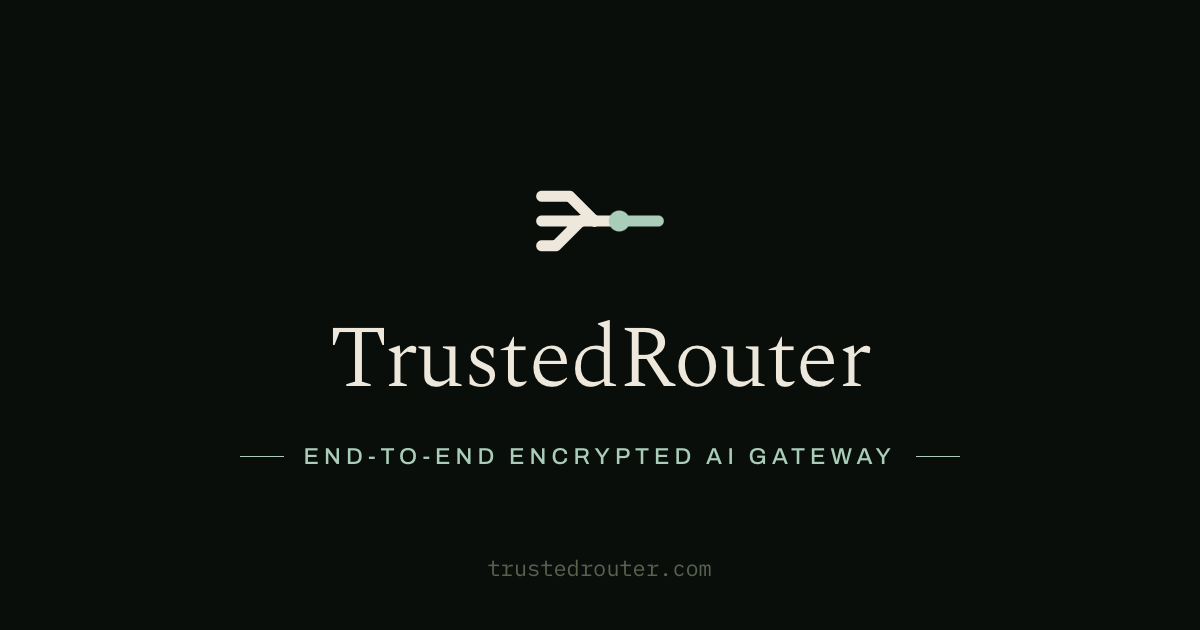
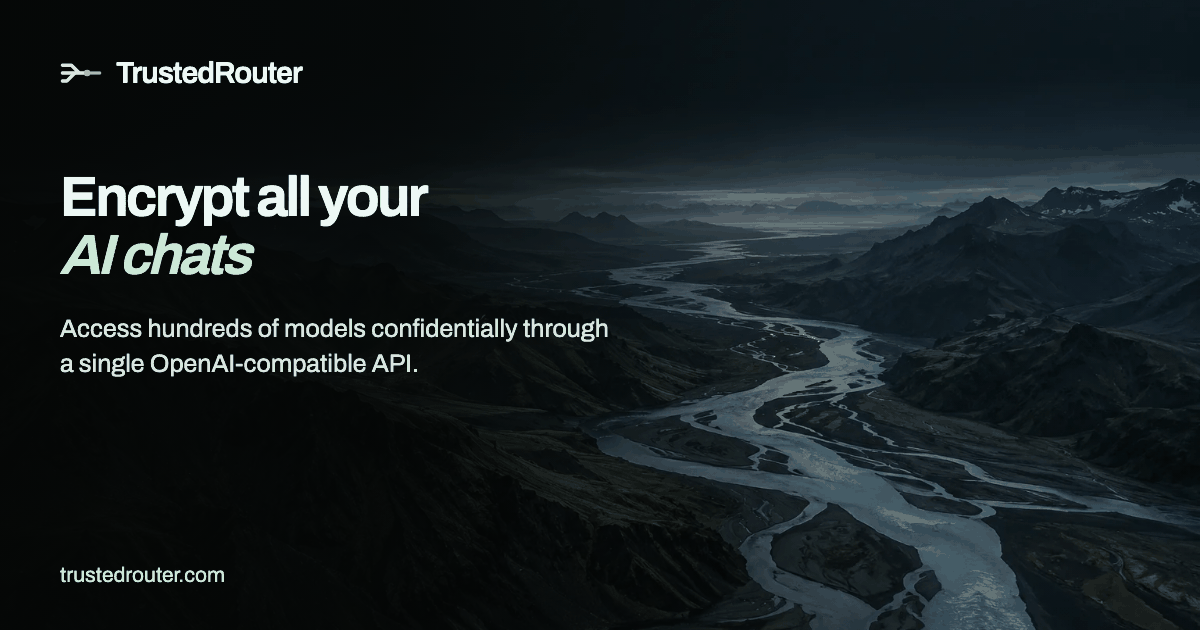
Render the default social card in the homepage style
Every page without a card of its own (3,639 of 3,823 sitemap URLs) unfurls
with static/og.png, which was still the old serif brand card. The card is
now the homepage card's design and words, rendered from a shared template
(docs/marketing/og-card.html) by scripts/generate_og_card.py, and a test
keeps it a 1200x630 PNG under 300 KB.

diff --git a/docs/marketing/og-card.html b/docs/marketing/og-card.html
@@ -1,0 +1,5 @@
+<!doctype html><html lang="en"><meta charset="utf-8"><base href="$base"><title>TrustedRouter social card</title><style>
+@font-face{font-family:Archivo;src:url('../../src/trusted_router/static/homepage/archivo.woff2');font-weight:100 900}
+*{box-sizing:border-box}html,body{margin:0;width:1200px;height:630px;overflow:hidden;background:#050706;color:#edf8f5;font-family:Archivo,Arial,sans-serif}
+.card{position:relative;width:1200px;height:630px;overflow:hidden}.landscape{position:absolute;inset:0;width:100%;height:100%;object-fit:cover;object-position:center 62%}.shade{position:absolute;inset:0;background:linear-gradient(90deg,#050706f5 0%,#050706d9 34%,#05070645 70%,#05070614 100%)}.content{position:relative;padding:52px 60px}.brand{display:flex;align-items:center;gap:14px;font-size:30px;font-weight:600;letter-spacing:-1px}.brand img{width:42px;height:42px}h1{font-size:76px;line-height:1.04;letter-spacing:-.045em;font-weight:650;margin:75px 0 26px;white-space:nowrap}em{color:#cce8d7;font-weight:600}p{font-size:25px;line-height:1.4;max-width:550px;margin:0;color:#d8e4df}.domain{position:absolute;bottom:44px;left:60px;font-size:21px;color:#cce8d7}
+</style><div class="card"><img class="landscape" src="../../src/trusted_router/static/homepage/trustedrouter-landscape-1536.webp" alt=""><div class="shade"></div><div class="content"><div class="brand"><img src="../../src/trusted_router/static/homepage/mark.svg" alt="">TrustedRouter</div><h1>$headline</h1><p>$subhead</p></div><div class="domain">trustedrouter.com</div></div></html>

diff --git a/scripts/generate_og_card.py b/scripts/generate_og_card.py
@@ -1,0 +1,179 @@
+#!/usr/bin/env python3
+"""Render a link-preview card in the homepage card style; by default the site's default card.
+
+Every page without a card of its own unfurls with ``static/og.png`` through the
+``og_image`` default in ``templates/public/_base.html``. On 2026-11-02 that was
+3,639 of the 3,823 sitemap URLs: every model page, every model comparison, the
+docs, legal and most core pages. This script renders that card from
+``docs/marketing/og-card.html`` with the homepage card's own words, so the
+default and the homepage card (``static/homepage/social-card-v2.jpg``, from
+``docs/homepage/social-card.html``) are one design.
+
+    uv run python scripts/generate_og_card.py                       # writes static/og.png
+    uv run python scripts/generate_og_card.py --out card.png \\
+        --headline "Private AI routing" --accent "you can verify" \\
+        --subhead "Hundreds of models through one API."              # a one-off card, same style
+
+Rendering uses the repo's Playwright Chromium (``npm ci`` installs it; Node 18+)
+and Pillow. The PNG is reduced to a median-cut palette so it stays under 300 KB.
+Blog cards (generate_blog_og.py) and provider cards (generate_provider_og.py)
+are separate.
+"""
+
+from __future__ import annotations
+
+import argparse
+import html
+import json
+import shutil
+import subprocess
+import sys
+import tempfile
+from dataclasses import dataclass
+from pathlib import Path
+from string import Template
+
+from PIL import Image
+
+REPO_ROOT = Path(__file__).resolve().parent.parent
+TEMPLATE_PATH = REPO_ROOT / "docs" / "marketing" / "og-card.html"
+STATIC_DIR = REPO_ROOT / "src" / "trusted_router" / "static"
+DEFAULT_OUT = STATIC_DIR / "og.png"
+
+WIDTH, HEIGHT = 1200, 630
+MAX_BYTES = 300_000
+MAX_HEADLINE_WORDS = 7
+# The headline shrinks from the homepage card's 76px until both lines fit
+# inside this width, so the river stays visible on the right.
+HEADLINE_MAX_WIDTH = 840
+HEADLINE_MIN_SIZE = 56
+
+
+@dataclass(frozen=True)
+class Card:
+    headline: str
+    accent: str  # italic pale-green second line; "" for a one-line headline
+    subhead: str
+
+    @property
+    def words(self) -> int:
+        return len(f"{self.headline} {self.accent}".split())
+
+
+# The homepage card's words. Changing them here changes what most of the site
+# shows when a link is shared; keep them in step with docs/homepage/social-card.html.
+DEFAULT_CARD = Card(
+    headline="Encrypt all your",
+    accent="AI chats",
+    subhead="Access hundreds of models confidentially through a single OpenAI-compatible API.",
+)
+
+# Runs in Node against the repo's @playwright/test: load the filled template,
+# wait for the font and the photo, shrink the headline until both lines fit,
+# and screenshot the 1200x630 page.
+_RENDER_JS = """
+const fs = require("fs");
+// The script runs from a temp folder; resolve Playwright from the repo's node_modules.
+const { chromium } = require(require.resolve("@playwright/test", { paths: [process.cwd()] }));
+const [manifestPath] = process.argv.slice(2);
+const { html, png, maxWidth, minSize } = JSON.parse(fs.readFileSync(manifestPath, "utf8"));
+(async () => {
+  const browser = await chromium.launch();
+  const page = await browser.newPage({ viewport: { width: 1200, height: 630 }, deviceScaleFactor: 1 });
+  await page.goto("file://" + html);
+  await page.evaluate(async ({ maxWidth, minSize }) => {
+    await document.fonts.ready;
+    await Promise.all([...document.images].map((img) => img.decode().catch(() => {})));
+    const h1 = document.querySelector("h1");
+    let size = parseFloat(getComputedStyle(h1).fontSize);
+    while (h1.scrollWidth > maxWidth && size > minSize) {
+      size -= 2;
+      h1.style.fontSize = size + "px";
+    }
+  }, { maxWidth, minSize });
+  await page.screenshot({ path: png, type: "png" });
+  await browser.close();
+})().catch((error) => { console.error(error); process.exit(1); });
+"""
+
+
+def render_html(card: Card, template: str | None = None) -> str:
+    """Fill the card template. Relative asset paths resolve from the template's folder."""
+    headline = html.escape(card.headline)
+    if card.accent:
+        headline += f"<br><em>{html.escape(card.accent)}</em>"
+    return Template(template or TEMPLATE_PATH.read_text()).substitute(
+        base=TEMPLATE_PATH.parent.as_uri() + "/",
+        headline=headline,
+        subhead=html.escape(card.subhead),
+    )
+
+
+def compress(path: Path) -> int:
+    """Re-encode a screenshot as a palette PNG under MAX_BYTES; returns the final size.
+
+    A full-colour 1200x630 render of the river photo is about 600 KB. Median-cut
+    palettes keep the photo's colours (the octree and max-coverage quantisers
+    shift them) and stay smooth without dithering, which showed as grain in the
+    sky. The palette shrinks only as far as the size limit needs.
+    """
+    with Image.open(path) as source:
+        image = source.convert("RGB")
+    for colors in (256, 192, 160, 128, 96, 64):
+        image.quantize(colors=colors, method=Image.Quantize.MEDIANCUT).save(
+            path, format="PNG", optimize=True
+        )
+        if path.stat().st_size <= MAX_BYTES:
+            break
+    return path.stat().st_size
+
+
+def render(card: Card, out: Path, node: str = "node") -> int:
+    """Render one card to ``out`` and return its size in bytes."""
+    out.parent.mkdir(parents=True, exist_ok=True)
+    with tempfile.TemporaryDirectory(prefix="og-card-") as tmp:
+        work = Path(tmp)
+        page = work / "card.html"
+        page.write_text(render_html(card))
+        script = work / "render.js"
+        script.write_text(_RENDER_JS)
+        manifest = work / "manifest.json"
+        manifest.write_text(
+            json.dumps(
+                {
+                    "html": str(page),
+                    "png": str(out),
+                    "maxWidth": HEADLINE_MAX_WIDTH,
+                    "minSize": HEADLINE_MIN_SIZE,
+                }
+            )
+        )
+        subprocess.run(  # noqa: S603 - fixed argv, our own script and manifest
+            [node, str(script), str(manifest)], cwd=REPO_ROOT, check=True
+        )
+    return compress(out)
+
+
+def main(argv: list[str] | None = None) -> int:
+    parser = argparse.ArgumentParser(
+        description=__doc__, formatter_class=argparse.RawDescriptionHelpFormatter
+    )
+    parser.add_argument("--out", type=Path, default=DEFAULT_OUT, help="PNG to write")
+    parser.add_argument("--headline", default=DEFAULT_CARD.headline)
+    parser.add_argument("--accent", default=DEFAULT_CARD.accent, help="italic second line; '' for none")
+    parser.add_argument("--subhead", default=DEFAULT_CARD.subhead)
+    parser.add_argument("--node", default=shutil.which("node") or "node", help="Node 18+ binary")
+    args = parser.parse_args(argv)
+
+    card = Card(args.headline, args.accent, args.subhead)
+    if card.words > MAX_HEADLINE_WORDS:
+        print(f"headline over {MAX_HEADLINE_WORDS} words; it will not read at thumbnail size", file=sys.stderr)
+        return 2
+    size = render(card, args.out, args.node)
+    flag = "" if size <= MAX_BYTES else "  OVER LIMIT"
+    print(f"{args.out}  {size // 1024} KB{flag}")
+    return 0 if size <= MAX_BYTES else 1
+
+
+if __name__ == "__main__":
+    raise SystemExit(main())

diff --git a/tests/test_og_default_card.py b/tests/test_og_default_card.py
@@ -1,0 +1,39 @@
+"""The default social card: what most of the site shows when a link is shared.
+
+Every page without a card of its own falls back to static/og.png through the
+og_image default in templates/public/_base.html. These checks keep the file a
+valid link-preview image: the OG size, a PNG, small enough to unfurl quickly,
+and rendered from the shared template so it matches the homepage card.
+"""
+
+from pathlib import Path
+
+from PIL import Image
+
+from scripts.generate_og_card import DEFAULT_CARD, MAX_BYTES, Card, render_html
+
+REPO_ROOT = Path(__file__).resolve().parents[1]
+OG_PNG = REPO_ROOT / "src" / "trusted_router" / "static" / "og.png"
+TEMPLATE = REPO_ROOT / "docs" / "marketing" / "og-card.html"
+
+
+def test_default_card_is_a_small_1200x630_png() -> None:
+    assert OG_PNG.stat().st_size <= MAX_BYTES
+    with Image.open(OG_PNG) as image:
+        assert image.format == "PNG"
+        assert image.size == (1200, 630)
+
+
+def test_default_card_words_match_the_homepage_card() -> None:
+    homepage = (REPO_ROOT / "docs" / "homepage" / "social-card.html").read_text()
+    assert f"{DEFAULT_CARD.headline}<br><em>{DEFAULT_CARD.accent}</em>" in homepage
+    assert DEFAULT_CARD.subhead in homepage
+    assert DEFAULT_CARD.words <= 7
+
+
+def test_template_fills_words_and_escapes_them() -> None:
+    page = render_html(Card("Routing & <proof>", "you can verify", "One sentence."))
+    assert "Routing &amp; &lt;proof&gt;<br><em>you can verify</em>" in page
+    assert "<p>One sentence.</p>" in page
+    assert f'<base href="{TEMPLATE.parent.as_uri()}/">' in page
+    assert "$" not in page.split("<style>")[1].split("</style>")[0]

diff --git a/docs/marketing/og-card-spec.md b/docs/marketing/og-card-spec.md
@@ -1,72 +1,65 @@
-# OG social-card spec (for image generation)
+# Social cards (link previews)
 
-These are the per-page link-preview cards. The site already falls back to the
-default brand card (`static/og.png`) for any page whose card doesn't exist yet,
-so you can generate and drop these in **one at a time** — each auto-activates
-the moment its PNG lands in `src/trusted_router/static/og/`. No code change or
-redeploy needed beyond shipping the image file.
+What a page shows when its link is pasted into Slack, LinkedIn, X or iMessage.
+Every public page sets `og:image`; this is where each kind of page gets it.
+
+| Pages | Image | Made by |
+|---|---|---|
+| Every page without a card of its own: model pages, model comparisons, docs, legal, most core pages (3,639 of 3,823 sitemap URLs on 2026-11-02) | `static/og.png`, the default card | `scripts/generate_og_card.py` |
+| Homepage | `static/homepage/social-card-v2.jpg` | browser capture of `docs/homepage/social-card.html` |
+| Provider pages | `static/og/providers/<slug>.png` | `scripts/generate_provider_og.py`, hourly from the catalog |
+| Blog posts with a leading chart | `static/og/blog/<slug>.png` | `scripts/generate_blog_og.py` |
+| 24 pages with a `PublicPage.og_card` | `static/og/<name>.png` | hand-made in June 2026, older style |
+
+## The default card
+
+The default card is the homepage card with the homepage card's words, rendered
+from the shared template `docs/marketing/og-card.html`: the river photo, the
+dark left shade, the mark and wordmark, an Archivo headline with a pale-green
+italic second line, a one-line subhead and `trustedrouter.com` bottom-left.
+Only the words are variables.
+
+```bash
+uv run python scripts/generate_og_card.py          # rewrites static/og.png
+```
+
+The words live in `DEFAULT_CARD` in the script. Keep them in step with
+`docs/homepage/social-card.html`, so a shared link anywhere on the site says
+what the homepage says. The script needs the repo's Playwright Chromium
+(`npm ci`; Node 18 or newer) and Pillow.
+
+`/og.png` is served by `routes/public.py` with a one-hour cache. Social
+networks cache the image behind a link for days: links shared before a deploy
+keep the old card until the network re-fetches the page (Slack and LinkedIn
+have re-scrape tools; X re-fetches on its own).
 
 ## Hard requirements (every card)
 
-- **Dimensions:** exactly **1200 × 630 px** (the OG/Twitter `summary_large_image`
-  standard). Cards that aren't this ratio get cropped ugly.
-- **Format:** PNG, sRGB, under ~300 KB (the default `og.png` is ~130 KB — match
-  that ballpark so unfurls load fast).
-- **Safe margins:** keep all text ≥ 80 px from every edge. Some clients crop.
-- **Legibility at thumbnail size:** the headline must be readable when the card
-  is shown at ~250 px wide in a timeline. Big type, high contrast.
-- **Output path:** `src/trusted_router/static/og/<filename>.png` (filenames below).
+- **Dimensions:** exactly **1200 × 630 px**. Other ratios get cropped.
+- **Format:** PNG under **300 KB**. The template's photo is about 600 KB at
+  full colour; the script reduces it to a median-cut palette, 128 to 160
+  colours, which looks the same at full size. No dithering: it showed as grain
+  in the sky.
+- **Headline:** at most 7 words over two lines. The script shrinks the type
+  from 76 px until both lines fit in 840 px, so the river stays visible.
+- **Legible at thumbnail size:** the headline must read at about 250 px wide.
 
-## Brand
+## Per-page cards
 
-Match the existing `static/og.png` and the site (`static/dashboard.css`):
-- Background: dark, near-black with a subtle deep blue/teal — the site's
-  `#101820` / `#17384a` terminal gradient is the reference.
-- Accent: the site green `#19a06d` / `#7be0b1` (used for the "verifiable" chips).
-- Wordmark: `TR` mark + `TrustedRouter` in the top-left, consistent across all
-  cards so they read as a set.
-- Footer line, small, bottom-left: `trustedrouter.com`
-- Optional motif: a subtle lock / checkmark / signed-seal glyph (the
-  "verifiable" idea). Keep it minimal — text legibility wins.
+A `PublicPage` entry in `dashboard.py` can name its own card with
+`og_card="<name>.png"`. `_og_image_url()` serves it only if
+`static/og/<name>.png` exists; otherwise the page gets the default card, so a
+declared card never 404s. Only 24 pages have one, all from June 2026 in an
+older style. Site-wide consistency comes from the default card, not from
+adding more of these.
 
-## The cards
+If a page genuinely needs its own words, render it in the same style and drop
+it in place:
 
-Each card = the page's hook as a big headline + a one-line subhead. Keep the
-headline to ≤ 7 words.
+```bash
+uv run python scripts/generate_og_card.py --out src/trusted_router/static/og/<name>.png \
+  --headline "Six words at most" --accent "italic second line" --subhead "One sentence."
+```
 
-| filename | headline | subhead |
-|---|---|---|
-| `openrouter-alternative.png` | The OpenRouter alternative you can verify | Open source · hardware-attested · no prompt logs |
-| `private-llm-api.png` | Private LLM API. Provably. | Verify the code path. It logs nothing. |
-| `hipaa-llm-api.png` | LLM routing you can actually audit | Attested gateway · open source · no PHI logging |
-| `llm-zero-data-retention.png` | Zero retention, verifiable in source | Not a contract clause. A property of the code. |
-| `claude-api-privacy.png` | Claude, through a path you can verify | Anthropic's posture + an open, attested router |
-| `litellm-alternative.png` | Self-host. And prove what it runs. | LiteLLM's freedom + hardware attestation |
-| `portkey-alternative.png` | Routing without logging every prompt | Usage metering, zero content logs |
-| `confidential-computing-llm.png` | Confidential computing for LLMs | GCP Confidential Space · every provider · one API |
-| `tinfoil-alternative.png` | Verifiable privacy, every provider | Same bet as Tinfoil — applied as a router |
-
-## Optional, higher-value cards (do these first if generating a subset)
-
-The pages that get shared the most are the homepage, the playground, and the
-flagship comparison. The homepage already has `og.png`. Two worth tailoring:
-
-| filename | page | headline | subhead |
-|---|---|---|---|
-| `chat.png` | `/chat` | Try any model. Zero tokens until you sign in. | Compare 4 LLMs side by side, free |
-| `compare-openrouter.png` | `/compare/openrouter` | OpenRouter, but you can verify it | Change one line. Keep your models. Prove the path. |
-
-(These two pages don't use `PublicPage.og_card` yet — `/chat` renders via
-`public_chat_html` and `/compare/openrouter` via the `compare/openrouter`
-PublicPage entry. Wiring is a one-line change once the images exist; ping me
-and I'll add it, or set `og_card="compare-openrouter.png"` on that entry.)
-
-## How activation works (so you can verify)
-
-`dashboard.py:_og_image_url()` returns the per-page card **only if the PNG
-exists on disk**, else the default `og.png`. After dropping a file:
-1. `ls src/trusted_router/static/og/` — confirm the PNG is there.
-2. Hit the page locally and grep the head for `og:image` — it should point at
-   `/static/og/<filename>.png`.
-3. After deploy, validate the live unfurl at
-   https://cards-dev.twitter.com/validator or by pasting the URL into Slack.
+Then check the page's head locally: `og:image` should point at
+`/static/og/<name>.png`.

diff --git a/docs/homepage/README.md b/docs/homepage/README.md
@@ -16,6 +16,7 @@ The marketing homepage ported into the application, served at `/` for every bran
 | `src/trusted_router/dashboard.py` | `dashboard_html` renders the homepage for the requested brand and sets the social image. |
 | `src/trusted_router/routes/acquisition.py` | Allowlist of `home.*` analytics event names. |
 | `docs/homepage/social-card.html` | Source of `static/homepage/social-card-v2.jpg` (1200×630). |
+| `docs/marketing/og-card.html`, `scripts/generate_og_card.py` | Same card as a template; renders `static/og.png`, the link preview for every page without a card of its own (see `docs/marketing/og-card-spec.md`). |
 | `docs/homepage/evidence/2026-09-30-gateway/` | Gateway attestation capture behind the request module. |
 | `docs/homepage/MOCKUP-AUDIT.md` | September 29 audit of the port against the mock. |
 
